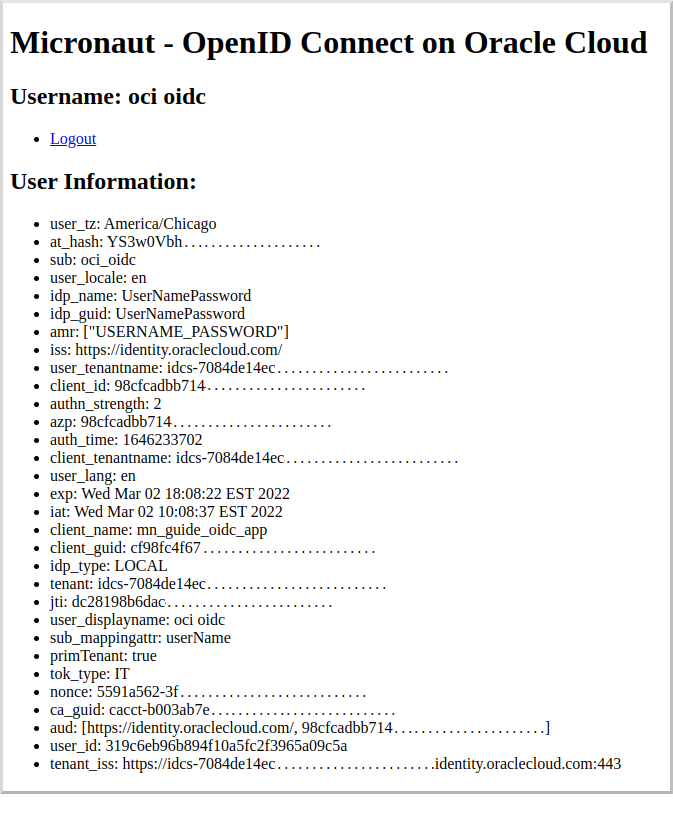
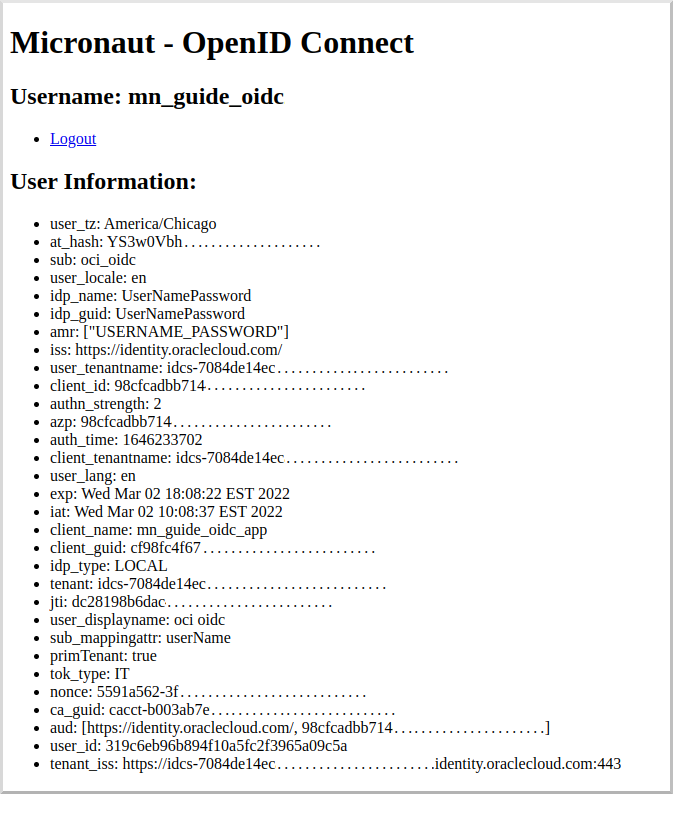
PR feedback

Changed region(s): [[0.1872, 0.091, 0.4056, 0.1517], [0.6241, 0.0303, 0.9673, 0.0607]]

diff --git a/guides/micronaut-cloud-oidc-base/src/main/resources/views/home.html b/guides/micronaut-cloud-oidc-base/src/main/resources/views/home.html
@@ -6,12 +6,12 @@
 <body>
 <h1>Micronaut - OpenID Connect</h1>
 
-<h2 th:if="${security}">Username: <span th:text="${security.attributes.get('user_displayname')}"></span></h2>
+<h2 th:if="${security}">Username: <span th:text="${security.get('name')}"></span></h2>
 <h2 th:unless="${security}">Username: Anonymous</h2>
 
 <nav>
     <ul>
-        <li th:unless="${security}"><a href="/oauth/login/oci">Enter</a></li>
+        <li th:unless="${security}"><a href="/oauth/login/micronaut">Enter</a></li>
         <li th:if="${security}"><a href="/logout">Logout</a></li>
     </ul>
 </nav>

diff --git a/guides/micronaut-cloud-oidc-base/kotlin/src/main/kotlin/example/micronaut/HomeController.kt b/guides/micronaut-cloud-oidc-base/kotlin/src/main/kotlin/example/micronaut/HomeController.kt
@@ -13,9 +13,9 @@ class HomeController {
     @Secured(IS_ANONYMOUS) // <2>
     @View("home") // <3>
     @Get // <4>
-    fun index(): Map<String, Any> = mutableMapOf()
+    fun index(): Map<String, Any> = mapOf()
 
     @Secured(IS_AUTHENTICATED) // <5>
     @Get("/secure") // <6>
-    fun secured(): Map<String, Any> = mutableMapOf("secured" to true) // <7>
+    fun secured(): Map<String, Any> = mapOf("secured" to true) // <7>
 }

diff --git a/guides/micronaut-cloud-oidc-base/java/src/main/java/example/micronaut/HomeController.java b/guides/micronaut-cloud-oidc-base/java/src/main/java/example/micronaut/HomeController.java
@@ -1,11 +1,11 @@
 package example.micronaut;
 
-import io.micronaut.core.util.CollectionUtils;
 import io.micronaut.http.annotation.Controller;
 import io.micronaut.http.annotation.Get;
 import io.micronaut.security.annotation.Secured;
 import io.micronaut.views.View;
 
+import java.util.Collections;
 import java.util.HashMap;
 import java.util.Map;
 
@@ -19,12 +19,12 @@ public class HomeController {
     @View("home") // <3>
     @Get // <4>
     public Map<String, Object> index() {
-        return new HashMap<>();
+        return Collections.emptyMap();
     }
 
     @Secured(IS_AUTHENTICATED) // <5>
     @Get("/secure") // <6>
     public Map<String, Object> secured() {
-        return CollectionUtils.mapOf("secured", true); // <7>
+        return Collections.singletonMap("secured", true); // <7>
     }
 }
